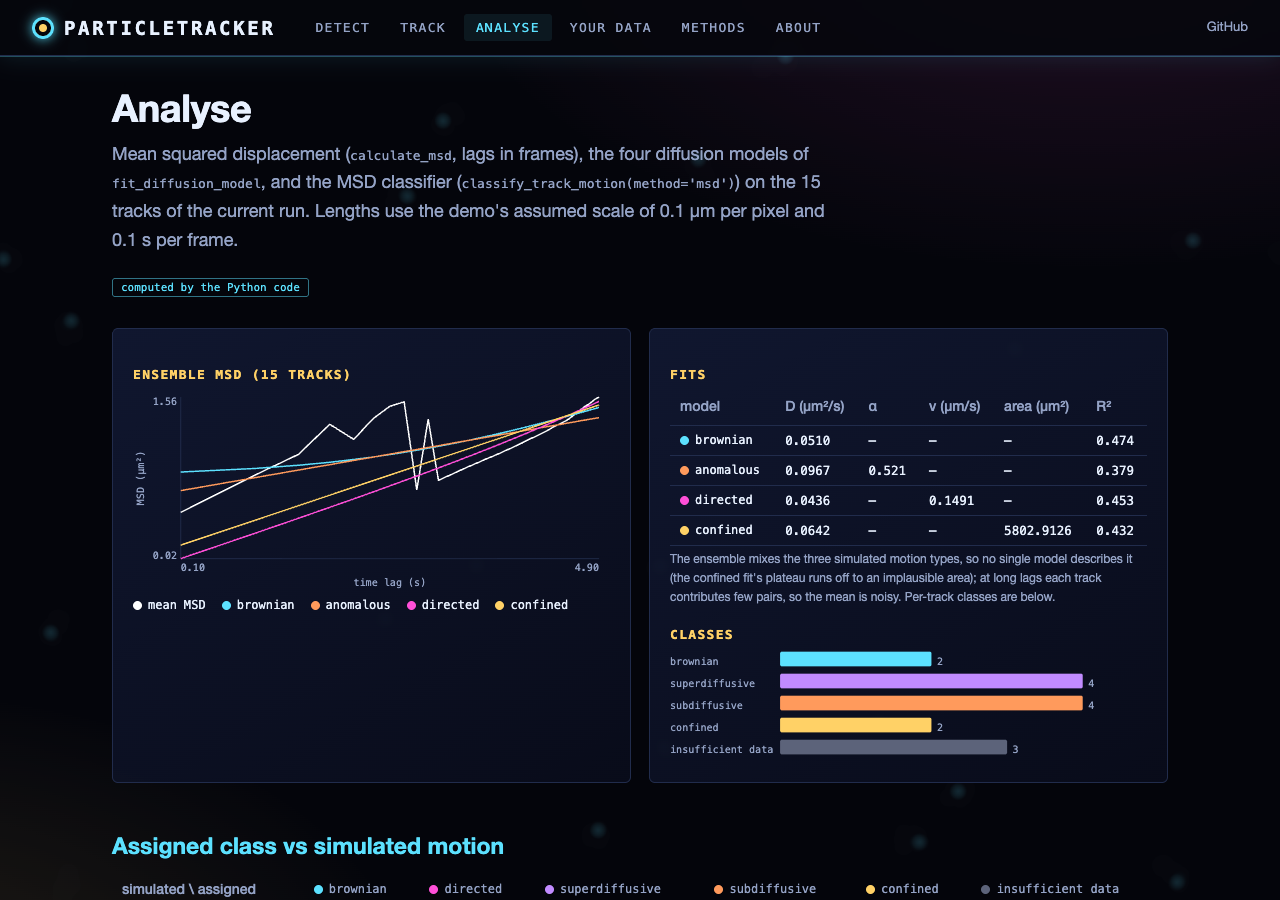
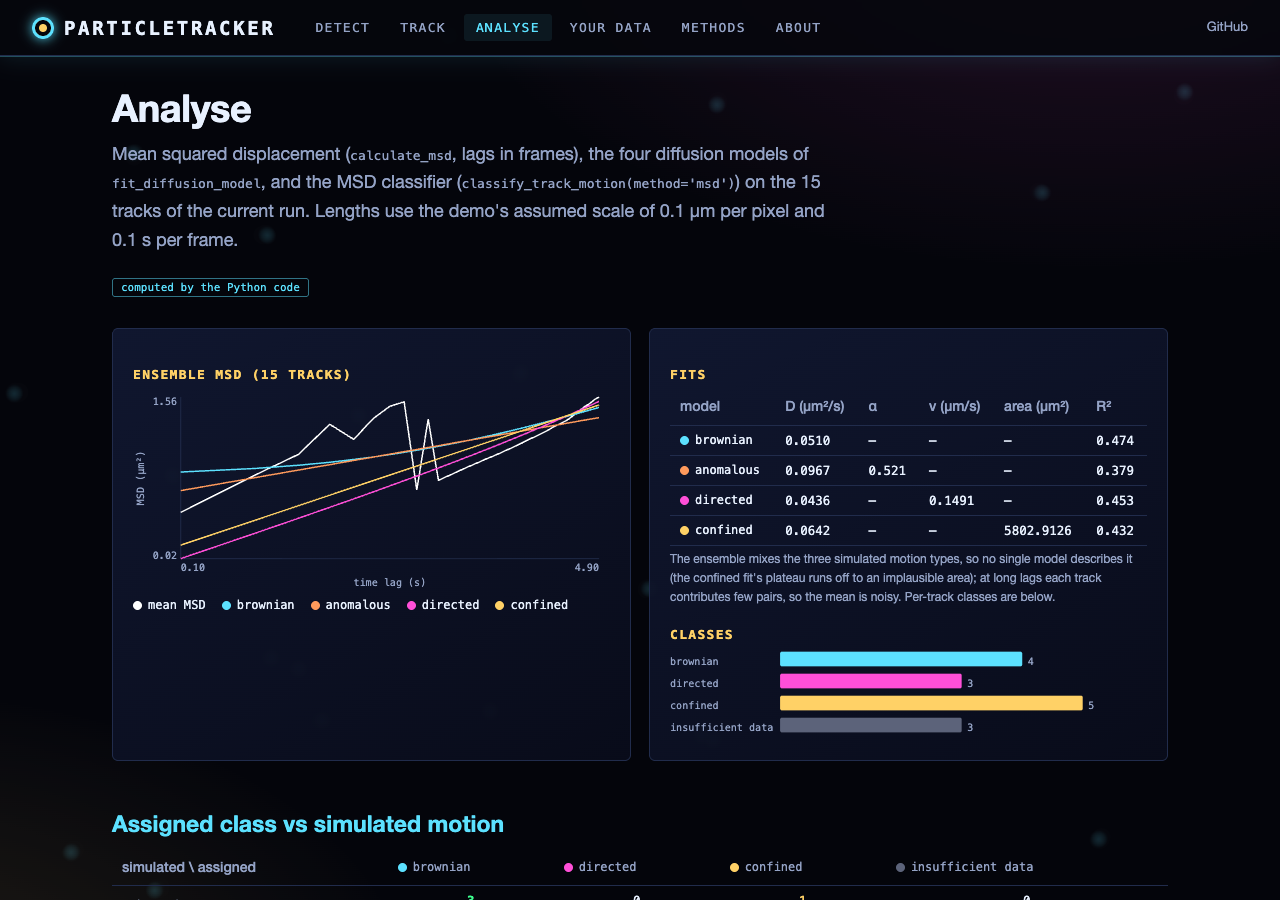
Show only the classes in use on the Analyse page
The confusion matrix shows the subdiffusive/superdiffusive columns only when
those labels occur (alpha_classes='anomalous'); refreshed the Analyse
screenshot.

diff --git a/src/web/static/analyze.js b/src/web/static/analyze.js
@@ -5,7 +5,7 @@ import { cls, color, fmt, getMeta, getRun, runSettings, where } from './data.js'
 import { bars, lines } from './charts.js';
 import { calculateMsd } from './analysis_engine.js';
 
-const CLASSES = ['brownian', 'directed', 'superdiffusive', 'subdiffusive', 'confined', 'insufficient_data'];
+const ALL_CLASSES = ['brownian', 'directed', 'confined', 'subdiffusive', 'superdiffusive', 'insufficient_data'];
 const TYPES = ['brownian', 'directed', 'confined'];
 const MODEL_COL = { brownian: color('brownian'), anomalous: color('subdiffusive'), directed: color('directed'), confined: color('confined') };
 
@@ -27,6 +27,8 @@ route('analyse', async () => {
   if (F.directed?.success) series.push({ points: curve(t => 4 * F.directed.diffusion_coefficient * t + (F.directed.velocity * t) ** 2), color: color('directed'), label: 'directed' });
   if (F.confined?.success) series.push({ points: curve(t => F.confined.confinement_area * (1 - Math.exp(-4 * F.confined.diffusion_coefficient * t / F.confined.confinement_area))), color: color('confined'), label: 'confined' });
 
+  // sub/superdiffusive only appear with alpha_classes='anomalous': show their columns only when used
+  const CLASSES = ALL_CLASSES.filter(c => !['subdiffusive', 'superdiffusive'].includes(c) || r.class_counts[c]);
   const conf = TYPES.map(t => CLASSES.map(c => r.per_track.filter(p => truthType(p.track_id) === t && p.motion_class === c).length));
   const noPart = CLASSES.map(c => r.per_track.filter(p => truthType(p.track_id) === null && p.motion_class === c).length);
   const long = r.per_track.filter(p => p.length >= 10);
